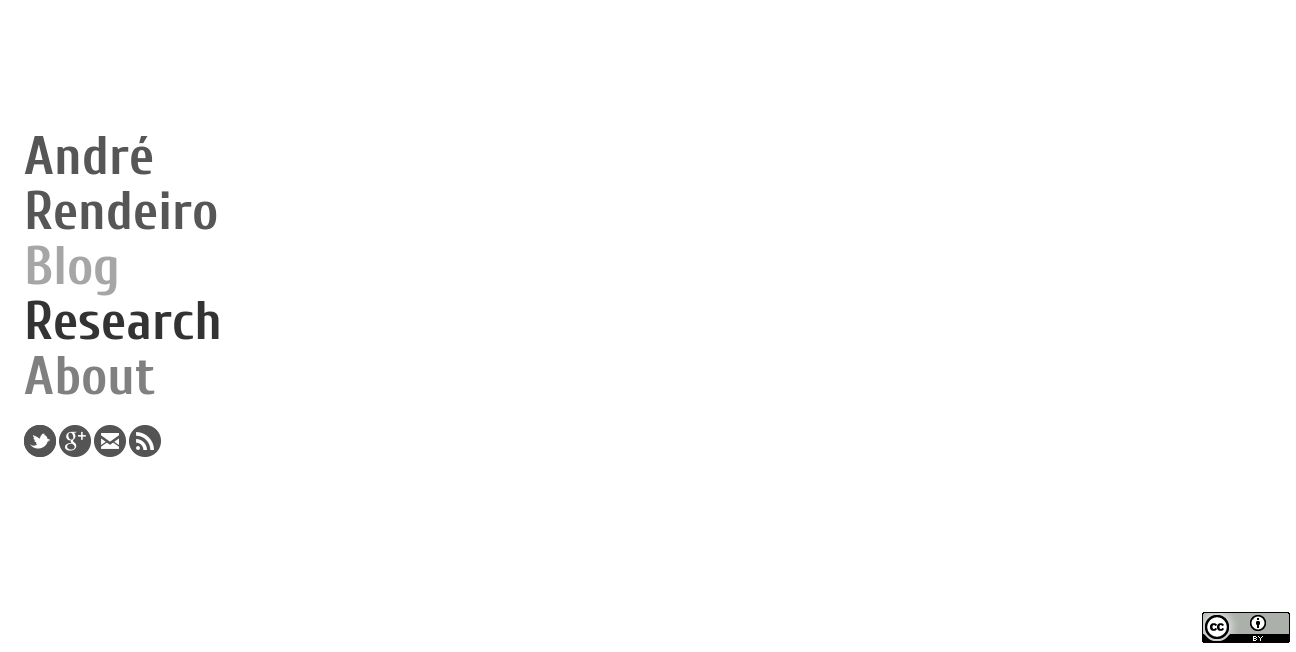
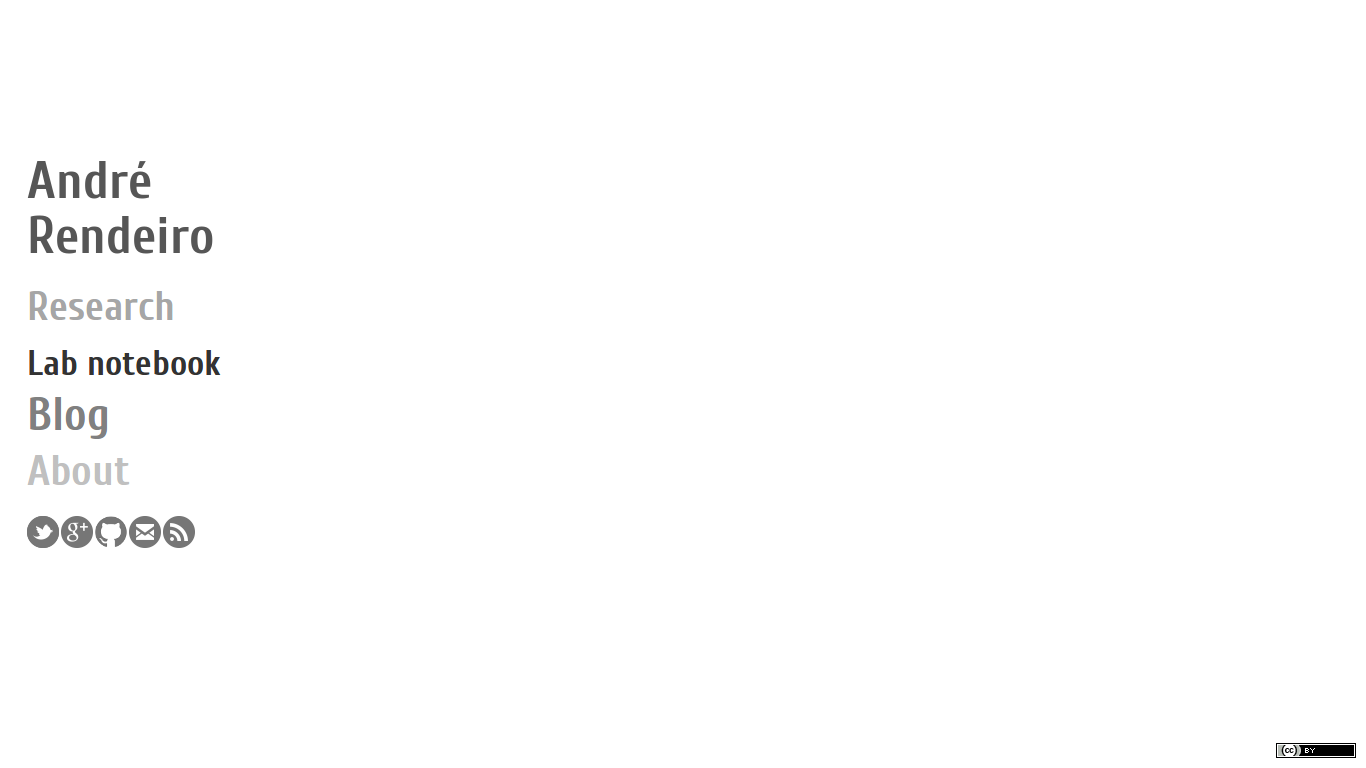
added further customization of archive pages and sidebars on labnotebook pages

Changed region(s): [[0.0, 0.2147, 0.1852, 0.7362], [0.9259, 0.9202, 1.0, 1.0]]

diff --git a/css/style.css b/css/style.css
@@ -1,17 +1,18 @@
 /*
-Theme Name: afr
-Theme URI: http://www.andre-rendeiro.me
+Theme Name: WP_labnotebook
+Theme URI: https://github.com/afrendeiro/wp_labnotebook
 Author: André Rendeiro
-Author URI: http://www.andre-rendeiro.me/blog/author/afr/
+Author URI: http://www.andre-rendeiro.me/
 Based on: Bare Responsive
 Original Theme URI: http://www.hongkiat.com/blog/
 Original Author: Jake Rocheleau
 Original Author URI: http://www.hongkiat.com/blog/author/jake/
-Description: A minimalistic theme for http://www.andre-rendeiro.me based on Bare Responsive.
+Description: A wordpress theme featuring an electronic lab notebook
 Version: 1.0
 License: GNU General Public License
 License URI: http://www.gnu.org/licenses/gpl-2.0.html
 Tags: white, grey, responsive, two-columns, right-sidebar, flexible-width, custom-header, custom-menu, mobile, iphone, android, webkit, css3, transitions, custom-fonts, minimalism
+Favicon author: Hatchers (https://www.iconfinder.com/icons/192555/book_bookmark_hand_drawn_icon#size=64) Creative Commons (Attribution 3.0 Unported
 */
 html, body, div, span, applet, object, iframe, h1, h2, h3, h4, h5, h6, p, blockquote, pre, a, abbr, acronym, address, big, cite, code, del, dfn, em, img, ins, kbd, q, s, samp, small, strike, strong, sub, sup, tt, var, b, u, i, center, dl, dt, dd, ol, ul, li, fieldset, form, label, legend, table, caption, tbody, tfoot, thead, tr, th, td, article, aside, canvas, details, embed,  figure, figcaption, footer, header, hgroup,  menu, nav, output, ruby, section, summary, time, mark, audio, video {
   margin: 0;
@@ -33,7 +34,14 @@ blockquote:before, blockquote:after,
 q:before, q:after { content: ''; content: none; }
 
 table { border-collapse: collapse; border-spacing: 0; }
-img { border: 0; max-width: 100%; }
+
+img {
+	border: 0;
+	max-width: 100%; 
+	display: block;
+    margin-left: auto;
+    margin-right: auto;
+}
 
 p { font-size: 1.6em; line-height: 1.75em; color: #565656; margin-bottom: 12px; }
 
@@ -50,7 +58,7 @@ a:hover {
 }
 
 /** page wrapping **/
-.wrapper { max-width: 900px; margin: 0 auto; }
+.wrapper {margin: 0 auto; }
 
 h1, h2, h3, h4, h5, h6 {
 	font-family: 'Cuprum', sans-serif;
@@ -62,18 +70,23 @@ h1, h2, h3, h4, h5, h6 {
 /** full navigation **/
 #navbar { display: none; }
 
-.socialIcons {
-	opacity: 1;
+.social {
+	display: inline-block;
+	opacity: .8;
     -moz-transition: all 0.3s ease-out;  /* FF4+ */
     -o-transition: all 0.3s ease-out;  /* Opera 10.5+ */
     -webkit-transition: all 0.3s ease-out;  /* Saf3.2+, Chrome */
     -ms-transition: all 0.3s ease-out;  /* IE10? */
-    transition: all 0.3s ease-out;  
+    transition: all 0.3s ease-out;
 }
 
-.socialIcons:hover {
-	opacity: .8;
-	filter:alpha(opacity=80); /* For IE8 and earlier */
+.social:hover {
+	opacity: 1;
+	-moz-transition: all 0.3s ease-in;  /* FF4+ */
+    -o-transition: all 0.3s ease-in;  /* Opera 10.5+ */
+    -webkit-transition: all 0.3s ease-in;  /* Saf3.2+, Chrome */
+    -ms-transition: all 0.3s ease-in;  /* IE10? */
+    transition: all 0.3s ease-in;
 }
 
 #cc{
@@ -125,11 +138,12 @@ h1, h2, h3, h4, h5, h6 {
 	#n ul li a {color: #A6A6A6; font-size: 75%;}
 	#n ul li + li a {color: #333333; font-size: 65%;}
 	#n ul li + li +li a {color: #808080; font-size: 85%;}
-	#n ul li + li +li +li a {color: #A6A6A6; font-size: 110%;}
+	#n ul li + li +li +li a {color: #C0C0C0; font-size: 78%;}
+	#n ul li + li +li +li +li a {color: #A6A6A6; font-size: 90%;}
 
 	#n ul li:hover > a { text-decoration: none; color: #5d9de5;}
 
-	#content { width: 90%; position: relative; float: left; margin-left:240px;}
+	#content { width: 80%; position: relative; float: left; margin-left:240px;}
 
 }
 
@@ -170,7 +184,7 @@ h1, h2, h3, h4, h5, h6 {
     margin:0 0 6px 2em; /* Give each list item a left margin to make room for the numbers */
     padding:4px 8px; /* Add some spacing around the content */
     list-style:none; /* Disable the normal item numbering */
-    font-size: 14px;
+    font-size: 13px;
 }
 
 .post ol > li:before {
@@ -192,6 +206,7 @@ h1, h2, h3, h4, h5, h6 {
     color:#fff;
     background:#666;
     font-weight:bold;
+    font-size: 13px;
     text-align:center;
 }
 
@@ -398,6 +413,12 @@ html[xmlns] .clearfix { display: block; }
 
 /* Mobile Smartphones ----------- */
 @media only screen and (min-width : 0) and (max-width : 820px) {
+	#home {
+		position: absolute;
+		top: 2px;
+		right: 2px;
+		opacity: 0;
+	}
 
 	#navbar {
 	clear: both; text-align: center;
@@ -414,29 +435,28 @@ html[xmlns] .clearfix { display: block; }
 	width: 100%; 
 	}
 
-	nav {
-		clear: both; text-align: center;
-		display: block;
-	}
-
 	#sitetitle {
 		font-size: 55px;
-		clear: both; text-align: center;
+		clear: both;
+		text-align: center;
 		color: #C0C0C0;
 	}
 
-	#navbar a { display: block; line-height: 44px; padding: 0 10px; font-weight: bold; font-size: 1.2em; color: #8fb5e0; }
+	#navbar a { display: block; line-height: 44px; font-weight: bold; font-size: 1.2em; color: #8fb5e0; }
 	#navbar a:hover { color: #bbd2eb; text-decoration: none; }
 	
-	#n ul { display: none; background: #242424; border: 0; height: auto; padding: 5px 10px; overflow: hidden; }
+	#n ul { display: none; background: #242424; border: 0; height: auto; overflow: hidden; clear: both; text-align: center;}
 	
 	#n ul li { font-size: 1.2em; }
 	
-	#n ul li ul { display: block; position: static; border: 0; background: #242424; }
-	#n ul li ul li { font-size: 1.2em; margin-left: 22px; width: auto; }
+	#n ul li ul { display: block; border: 0; background: #242424; }
+	#n ul li ul li { font-size: 1.2em; width: auto; }
 	#n ul li { border: 0; width: 100%; background: #242424; border: 0; }
 	
-	#n ul li a, #n ul li ul li a { display: block; font-weight: bold; border-radius: 4px; -moz-border-radius: 4px; -webkit-border-radius: 4px; font-size: 1.2em; line-height: 1.3em; text-shadow: none; width: 100%; padding: 5px 12px; margin: 0; }
+	#n ul li a, #n ul li ul li a { display: block; font-weight: bold; border-radius: 4px;
+	 -moz-border-radius: 4px;
+	 -webkit-border-radius: 4px; font-size: 1.2em; line-height: 1.3em; text-shadow: none; width: 100%; 
+	 padding: 5px 0px; margin: 0; }
 	#n ul li ul li a { font-size: 1.5em; background: #242424; border: 0; }
 	#n ul li a:hover, #n ul li ul li a:hover { background: #303030; color: #fff; text-decoration: none; }
 

diff --git a/style.css b/style.css
@@ -1,13 +1,13 @@
 /*
-Theme Name: afr
-Theme URI: http://www.andre-rendeiro.me
+Theme Name: WP_labnotebook
+Theme URI: https://github.com/afrendeiro/wp_labnotebook
 Author: André Rendeiro
-Author URI: http://www.andre-rendeiro.me/blog/author/afr/
+Author URI: http://www.andre-rendeiro.me/
 Based on: Bare Responsive
 Original Theme URI: http://www.hongkiat.com/blog/
 Original Author: Jake Rocheleau
 Original Author URI: http://www.hongkiat.com/blog/author/jake/
-Description: A minimalistic theme for http://www.andre-rendeiro.me based on Bare Responsive.
+Description: A wordpress theme featuring an electronic lab notebook
 Version: 1.0
 License: GNU General Public License
 License URI: http://www.gnu.org/licenses/gpl-2.0.html

diff --git a/js/animate.js b/js/animate.js
@@ -1,10 +1,10 @@
 $(document).ready(function() {
-  $("img").on("mouseenter", function() {
+  $(".social").on("mouseenter", function() {
     $(this).animate(
     	{"margin-right":"4px"}
     	, "fast");
   });
-  $("img").on("mouseleave", function() {
+  $(".social").on("mouseleave", function() {
     $(this).animate(
     	{"margin-right":"0px"}
     	, "fast");

diff --git a/header.php b/header.php
@@ -15,34 +15,34 @@
   <link href='http://fonts.googleapis.com/css?family=Junge' rel='stylesheet' type='text/css'>
   <script type="text/javascript" src="https://ajax.googleapis.com/ajax/libs/jquery/1.7.2/jquery.min.js"></script>
   <script type="text/javascript" src="<?php echo get_template_directory_uri(); ?>/js/menuslider.js"></script>
-  <script type="text/javascript" src="<?php echo get_template_directory_uri(); ?>/js/animate.js"></script>
-<!--[if lt IE 9]>
-  <script src="//html5shiv.googlecode.com/svn/trunk/html5.js"></script>
-<![endif]-->
 	<?php if ( is_singular() ) wp_enqueue_script( 'comment-reply' );?>
 	<?php wp_head(); ?>
 </head>
 
 <body>
-<?php include_once("analyticstracking.php") ?>
+
+<?php include_once("analyticstracking.php"); ?>
 <?php add_filter('show_admin_bar', '__return_false');?>
 
 <a id='home' href='/wp-admin'><img class="social" src="<?php bloginfo('template_directory');?>/img/32x32/wordpress-32.png"></a>
+
 <nav id="n">
 
   <h1 id='sitetitle'><a href="<?php echo home_url(); ?>"><?php bloginfo('name'); ?></a></h1>
 
-  <div id="navbar"><a href="#">Nav Menu</a></div>
+  <div id="navbar">
+    <a href="#">Menu</a>
+  </div>
 
   <?php wp_nav_menu( array( 'sort_column' => 'menu_order', 'container' => false, 'theme_location' => 'header-menu' ) ); ?>
 
   <div id='socialbuttons'>
     <!-- Icons from here: http://www.pixelfrau.com/free-gray-circle-social-media-icons -->
-    <a class="socialIcons" href="http://twitter.com/afrendeiro" title="Follow me on Twitter" alt="Twitter Icon" target="_blank"><img class="social" src="<?php bloginfo('template_directory');?>/img/32x32/twitter-32.png"></a>
-    <a class="socialIcons" href="http://gplus.to/andrerendeiro" title="Add me on Google+" alt="Google Plus Icon" target="_blank"><img class="social" src="<?php bloginfo('template_directory');?>/img/32x32/googleplus-32.png"></a>
-    <a class="socialIcons" href="http://github.com/afrendeiro" title="Fork me on Github" alt="Github Icon" target="_blank"><img class="social" src="<?php bloginfo('template_directory');?>/img/32x32/github-32.png"></a>
+    <a href="http://twitter.com/afrendeiro" title="Follow me on Twitter" alt="Twitter Icon" target="_blank"><img class="social" src="<?php bloginfo('template_directory');?>/img/32x32/twitter-32.png"></a>
+    <a href="http://gplus.to/andrerendeiro" title="Add me on Google+" alt="Google Plus Icon" target="_blank"><img class="social" src="<?php bloginfo('template_directory');?>/img/32x32/googleplus-32.png"></a>
+    <a href="http://github.com/afrendeiro" title="Fork me on Github" alt="Github Icon" target="_blank"><img class="social" src="<?php bloginfo('template_directory');?>/img/32x32/github-32.png"></a>
     <script type="text/javascript" src="<?php bloginfo('template_directory');?>/js/obfuscate-email_nav.js" language="javascript"></script>
-    <a class="socialIcons" href="<?php bloginfo('rss2_url'); ?>" title="Subscribe to my RSS feed" alt="RSS Icon" target="_blank"><img class="social" src="<?php bloginfo('template_directory');?>/img/32x32/rss-32.png"></a>
+    <a href="<?php bloginfo('rss2_url'); ?>" title="Subscribe to my RSS feed" alt="RSS Icon" target="_blank"><img class="social" src="<?php bloginfo('template_directory');?>/img/32x32/rss-32.png"></a>
   </div>
 
 </nav>

diff --git a/page-templates/labnotebook.php b/page-templates/labnotebook.php
@@ -32,8 +32,6 @@ Template Name: Lab Notebook page
 
 			        <?php if (have_posts()) : while (have_posts()) : the_post(); ?>
 						
-						<article id="post-<?php the_ID(); ?>" class="post postbrdr" role="article">
-							<header class="posthead">
 							<?//** TO HAVE POST LABNOTEBOOK TAXONOMY**//?>
 							<?php $type = get_post_type(); ?>
 							   	<?php if ($type == 'labnotebook') : ?>
@@ -41,15 +39,9 @@ Template Name: Lab Notebook page
 							   		<?php else : ?>
 							   			<h2><a href="<?php the_permalink() ?>" rel="bookmark" title="<?php the_title_attribute(); ?>"><?php the_title(); ?></a></h2>
 							   	<?php endif?>
-								<span class="meta">
-									<i>Published <time datetime="<?php echo the_time('Y-m-j'); ?>"><?php echo the_time(get_option('date_format')); ?></time> by <?php the_author_posts_link(); ?>.</i>
+								<span>
+									<i>Published <time datetime="<?php echo the_time('Y-m-j'); ?>"><?php echo the_time(get_option('date_format')); ?></time></i>
 								</span>
-							</header>
-							
-							<section class="post-content clearfix">
-								<?php the_excerpt(); ?>
-							</section>
-						</article>
 
 					<?php endwhile; ?>
 

diff --git a/sidebar-labnotebook.php b/sidebar-labnotebook.php
@@ -8,5 +8,43 @@
 					<input type="submit" class="submit" name="submit" id="searchsubmit" value="Search">
 					</form>
 				</div>
+
+				<div class="widget">
+					<h3 class="wtitle">Browse by category</h3>
+					<ul>
+						<?php $cat_name = 'Lab Notebook';
+						$cat_id = get_cat_ID($cat_name);
+						wp_list_categories(
+							array(
+								'orderby' => id,
+								'use_desc_for_title' => 0,
+								'child_of' => $cat_id,
+								'title_li' => __( '' )
+								)
+							);
+						?>
+					</ul>
+				</div>
+
+				<div class="widget">
+					<h3 class="title">Recent entries</h3>
+					<ul>
+						<?php
+							  $temp_query = $wp_query;
+							  query_posts('cat='.$cat_id);
+							  while (have_posts()) {
+							     the_post();
+							?>
+							<li>
+							  <?php the_time('m/d'); ?>:
+							  <a href="<?php the_permalink(); ?>" >
+							  <?php the_title(); ?></a>
+							</li>
+							<?php
+							} // end custom loop
+							$wp_query = $temp_query;
+						?>
+					</ul>
+				</div>
 				
 			</aside>

diff --git a/sidebar-labnotebook_responsive.php b/sidebar-labnotebook_responsive.php
@@ -10,5 +10,43 @@
 					</form>
 				</div>
 
+				<div class="widget">
+					<h3 class="wtitle">Browse by category</h3>
+					<ul>
+						<?php $cat_name = 'Lab Notebook';
+						$cat_id = get_cat_ID($cat_name);
+						wp_list_categories(
+							array(
+								'orderby' => id,
+								'use_desc_for_title' => 0,
+								'child_of' => $cat_id,
+								'title_li' => __( '' )
+								)
+							);
+						?>
+					</ul>
+				</div>
+
+				<div class="widget">
+					<h3 class="title">Recent entries</h3>
+					<ul>
+						<?php
+							  $temp_query = $wp_query;
+							  query_posts('cat='.$cat_id);
+							  while (have_posts()) {
+							     the_post();
+							?>
+							<li>
+							  <?php the_time('m/d'); ?>:
+							  <a href="<?php the_permalink(); ?>" >
+							  <?php the_title(); ?></a>
+							</li>
+							<?php
+							} // end custom loop
+							$wp_query = $temp_query;
+						?>
+					</ul>
+				</div>
+
 		<?php endif; ?>
 		</aside> <!-- /#sidebar-responsive -->

diff --git a/README.md b/README.md
@@ -32,6 +32,16 @@ There are several types of page templates available:
 
 You can use any page (blog, lab notebook, about, etc.) for your front page, but I also provide a 'Front page' template, which doesn't include sidebars or footer.
 
-### Recomended plugins
+
+---------------------------------
+
+# Instalation
+1. [Get wordpress](http://wordpress.org/download/) and [install it](http://codex.wordpress.org/Installing_WordPress) on a desired folder in the server;
+2. [Get the WP_labnotebook theme from it's github page](https://github.com/afrendeiro/wp_labnotebook/) and copy it to the theme's folder (usually /wp-content/themes/);
+3. Personalize the theme with your personal data, social accounts and science applications in the theme's customization page;
+4. Optional: Install recommended plugins (see below).
+
+## Recomended plugins
 - [WP_Markdown](http://wordpress.org/plugins/wp-markdown/screenshots/)
-- 
+- [Disqus Comment System](http://wordpress.org/plugins/disqus-comment-system/)
+- [iFrame Widget](http://nullpointer.debashish.com/iframe-widget-for-wordpress)
